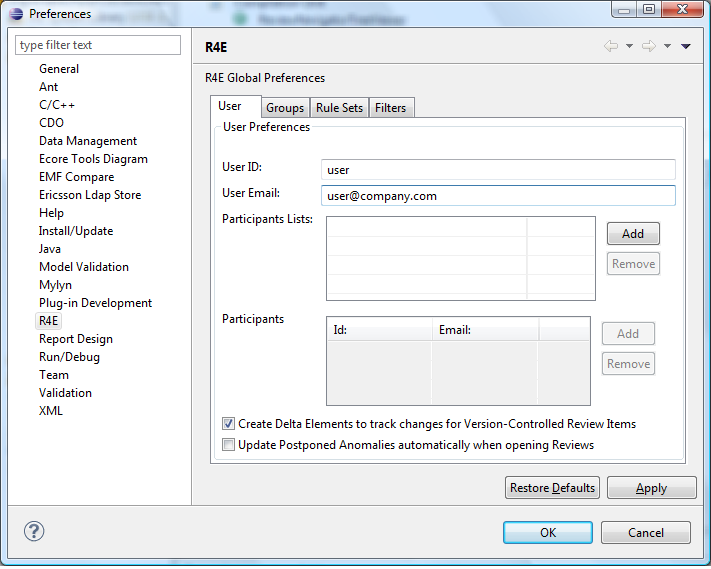
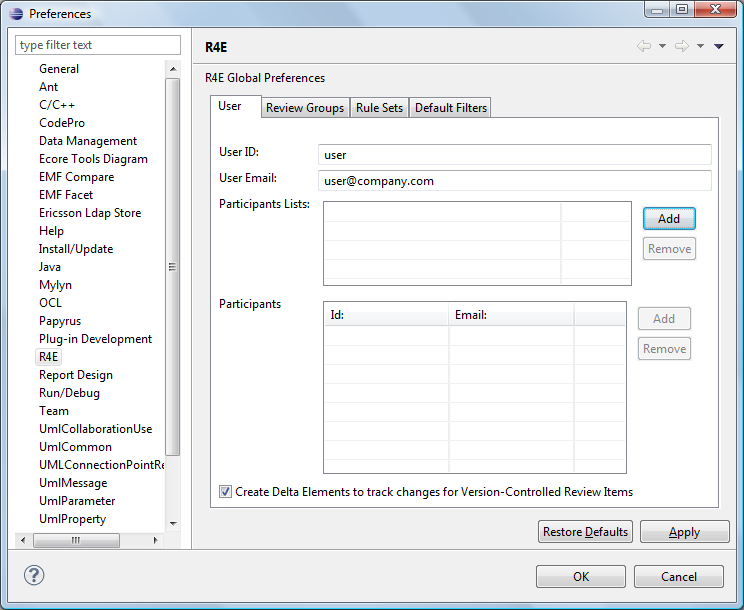
ASSIGNED - bug 378726: [doc] Update the picture about the R4E preference page when dealing with postponed anomalies https://bugs.eclipse.org/bugs/show_bug.cgi?id=378726

Changed region(s): [[0.0, 0.0, 1.0, 1.0], [0.6188, 0.5677, 0.6807, 0.5975]]

diff --git a/org.eclipse.mylyn.reviews.r4e.help/web/Reviews/R4E/User_Guide/User-Guide.html b/org.eclipse.mylyn.reviews.r4e.help/web/Reviews/R4E/User_Guide/User-Guide.html
@@ -472,7 +472,7 @@
 		</p>
 		<p>
 			<br/> 
-			<img border="0" src="images/R4E_Main.png"/> 
+			<img border="0" src="images/R4E_main.png"/> 
 		</p>
 		<p>
 			<br/> 
@@ -577,7 +577,7 @@
 			<img border="0" src="images/VersionMismatchError.png"/>
 		</p>
 		<ul>
-			<li>Metadata version is older than the R4E plugins version:  This means that the element was created with an older version of R4E than the one currently being used.  In this case an information dialog is displayed to highlight the fact and ask the user how to proceed.  The user can then choose to cancel the action, upgrade the file version to the current R4E version, which will permanently change the file version for all users, or keep the older file version and open the element in read-only mode.  When the element is open in read-only mode it is displayed in red in the Review Navigator View.</li>
+			<li>Metadata version is older than the R4E plugins version:  This means that the element was created with an older version of R4E than the one currently being used.  In this case an information dialog is displayed to highlight the fact and ask the user how to proceed.  The user can then choose to cancel the action, upgrade the file version to the current R4E version, which will permanently change the file version for all users, or keep the older file version and open the element in read-only mode.  When the element is open in read-only mode it is displayed with a top-right lock decorator in the Review Navigator View.</li>
 		</ul>
 		<p>
 			<img border="0" src="images/VersionMismatchInfo.png"/>

diff --git a/org.eclipse.mylyn.reviews.r4e.help/web/Reviews/R4E/User_Guide/Tasks.html b/org.eclipse.mylyn.reviews.r4e.help/web/Reviews/R4E/User_Guide/Tasks.html
@@ -515,17 +515,17 @@
 			<br/> 
 		</p>
 		<p>
-			<img border="0" src="images/NewAnomalyDialog.jpg"/> 
+			<img border="0" src="images/NewAnomalyDialog.png"/> 
 		</p>
 		<p>
 			<br/> 
 		</p>
 		<ul>
 			<li>Add the Anomaly Title and Description in the appropriate text fields. </li>
-			<li>Under the Extra Parameters section, you can also specify the class, rank, due date and participant that will be assigned to this anomaly.  If Rule Sets are associated to the parent Review Group, the Rule Sets hierarchy will be shown and, optionally, a design rule can be selected and applied to this anomaly. This will override the Anomaly values with the selected rule values.</li>
+			<li>Under the Extra Parameters section, you can also specify the class, rank, due date and participant that will be assigned to this anomaly.  If Rule Sets are associated to the parent Review Group, the Rule Sets hierarchy will be shown and, optionally, a design rule can be toggled selected/de-selected and if selected its values will be applied to this anomaly. This will override the previous Anomaly values.</li>
 		</ul>
 		<p>
-			<br/>
+			<br/> 
 		</p>
 		<h3 id="Creating_Comments_on_an_existing_Anomaly">Creating Comments on an existing Anomaly</h3>
 		<p>It is possible to add comments to an existing anomaly. This could be useful in discussing the anomaly or for tracking purposes. To create a Comment, use the 
